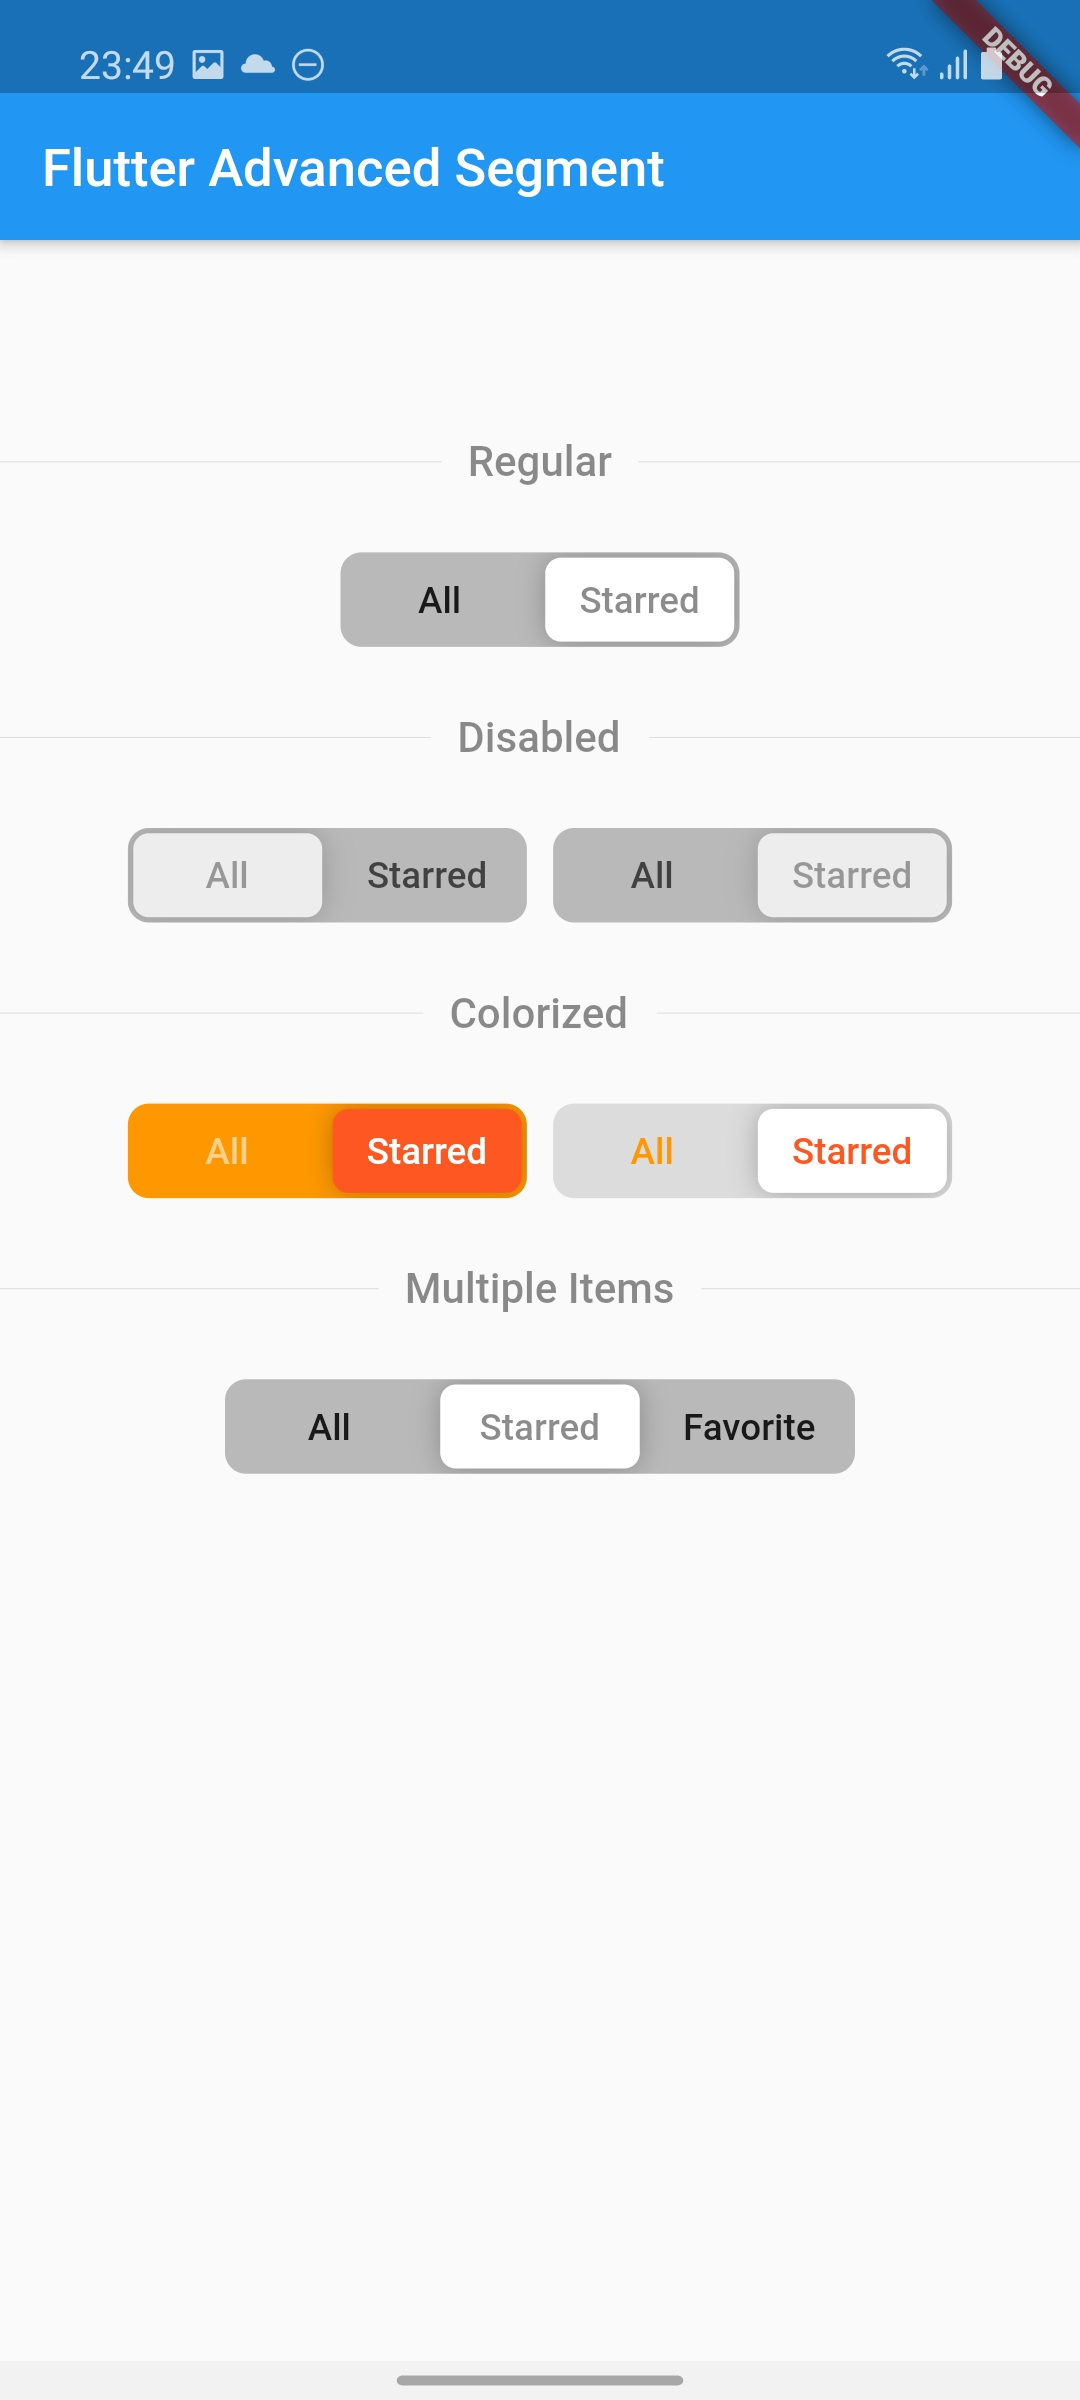
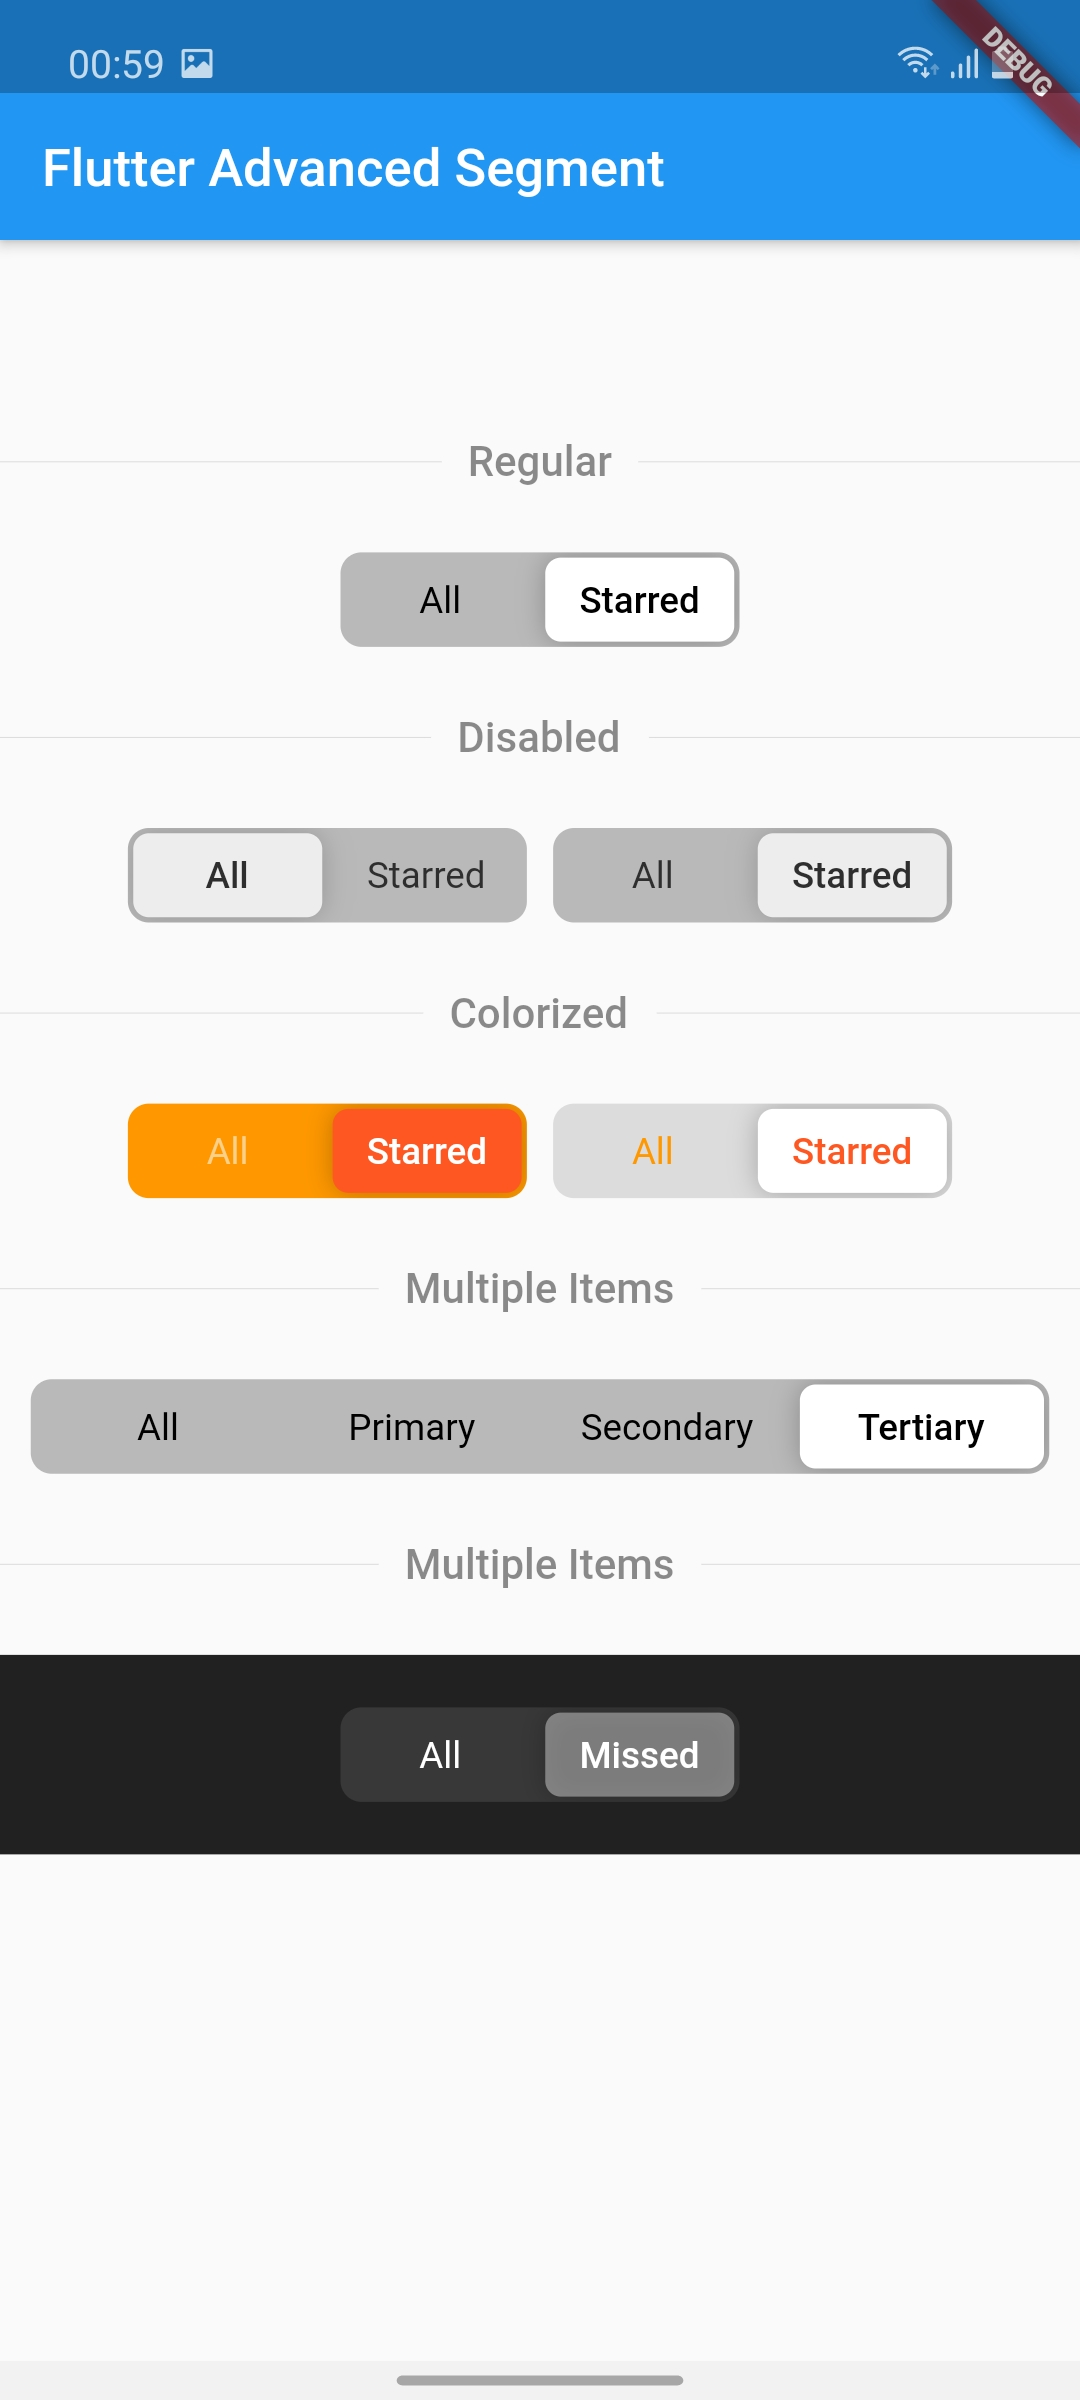
Documentation updated.

diff --git a/README.md b/README.md
@@ -1,9 +1,9 @@
 # flutter_advanced_segment
 An advanced segment widget, that can be fully customized.
 
-| 1 | 2 | 3 |
-|:-:|:-:|:-:|
-| ![Flutter Advanced Segment State 1](./SEGMENT_STATE_1.jpg) | ![Flutter Advanced Switch Starred State 2](./SEGMENT_STATE_2.jpg) | ![Flutter Advanced Switch Starred State 3](./SEGMENT_STATE_3.jpg) |
+| State 1 | State 2 |
+|:-:|:-:|
+| ![Flutter Advanced Segment State 1](./SEGMENT_STATE_1.jpg) | ![Flutter Advanced Switch Starred State 2](./SEGMENT_STATE_2.jpg) |
 
 ## Getting Started
 In the `pubspec.yaml` of your flutter project, add the following dependency:
@@ -19,3 +19,60 @@ Import in your project:
 ```dart
 import 'package:flutter_advanced_segment/flutter_advanced_segment.dart';
 ```
+
+## Examples
+
+Regular Segment
+
+```dart
+//...
+AdvancedSegment(
+  segments: { // Map<String, String>
+    'all': 'All',
+    'starred': 'Starred',
+  },
+  value: _value, // String
+  onValueChanged: (value) => setState(() { // ChangeHandler<String>
+    _value = value;
+  }),
+),
+//...
+``` 
+
+Customized Segment
+
+```dart
+//...
+AdvancedSegment(
+  segments: { // Map<String, String>
+    'all': 'All',
+    'primary': 'Primary',
+    'secondary': 'Secondary',
+    'tertiary': 'Tertiary',
+  },
+  value: _value, // String
+  activeStyle: TextStyle( // TextStyle
+    color: Colors.white,
+    fontWeight: FontWeight.w600,
+  ),
+  inactiveStyle: TextStyle( // TextStyle
+    color: Colors.white54,
+  ),
+  backgroundColor: Colors.black26, // Color
+  sliderColor: Colors.white, // Color
+  sliderOffset: 2.0, // Double
+  borderRadius: const BorderRadius.all(Radius.circular(8.0)), // BorderRadius
+  itemPadding: const EdgeInsets.symmetric( // EdgeInsets
+    horizontal: 15,
+    vertical: 10,
+  ),
+  onValueChanged: (value) => setState(() { // ChangeHandler<String>
+    _value = value;
+  }),
+),
+//...
+``` 
+
+# Demo
+
+![Flutter Advanced Segment Demo](./DEMO.gif)
